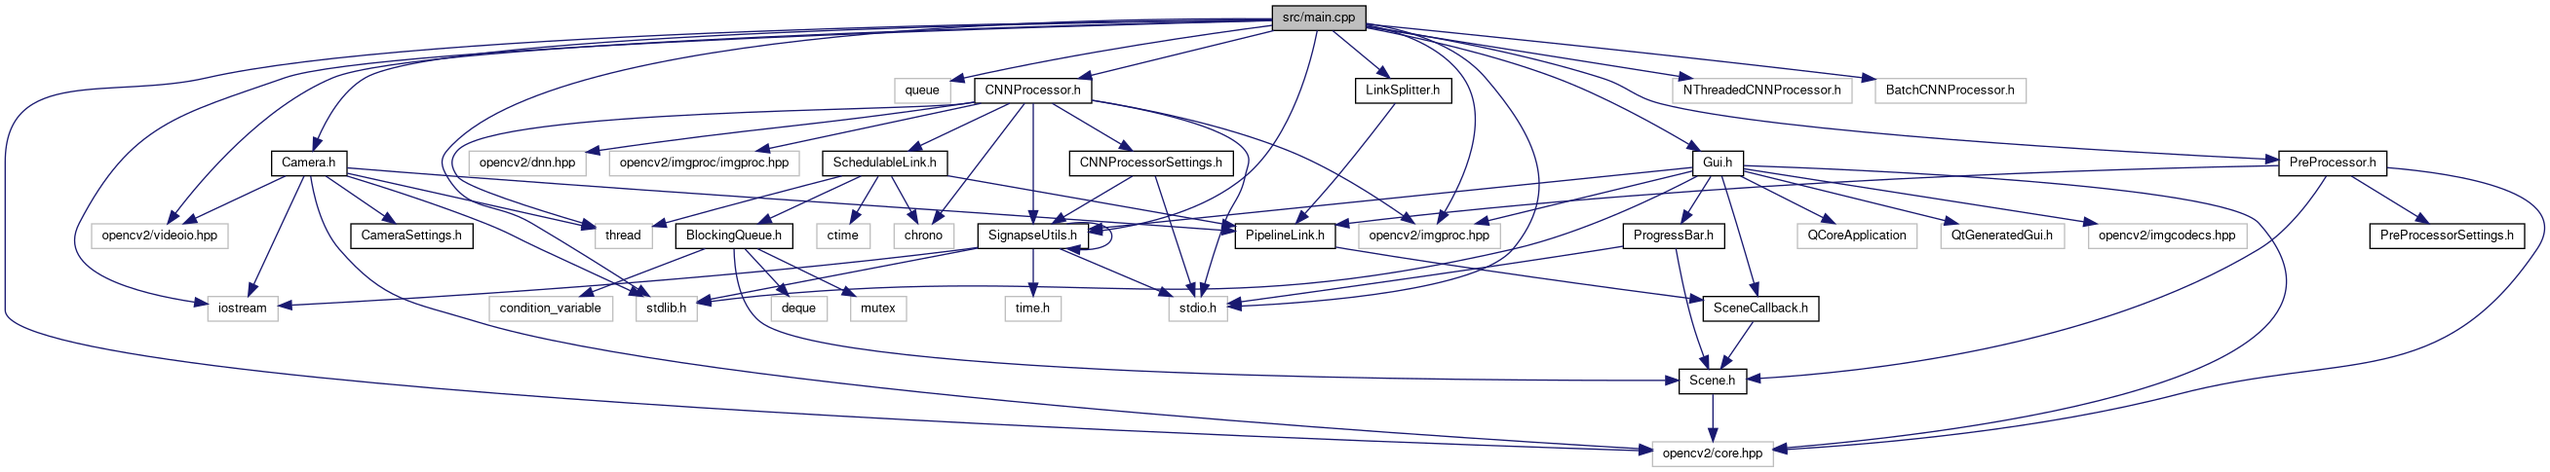
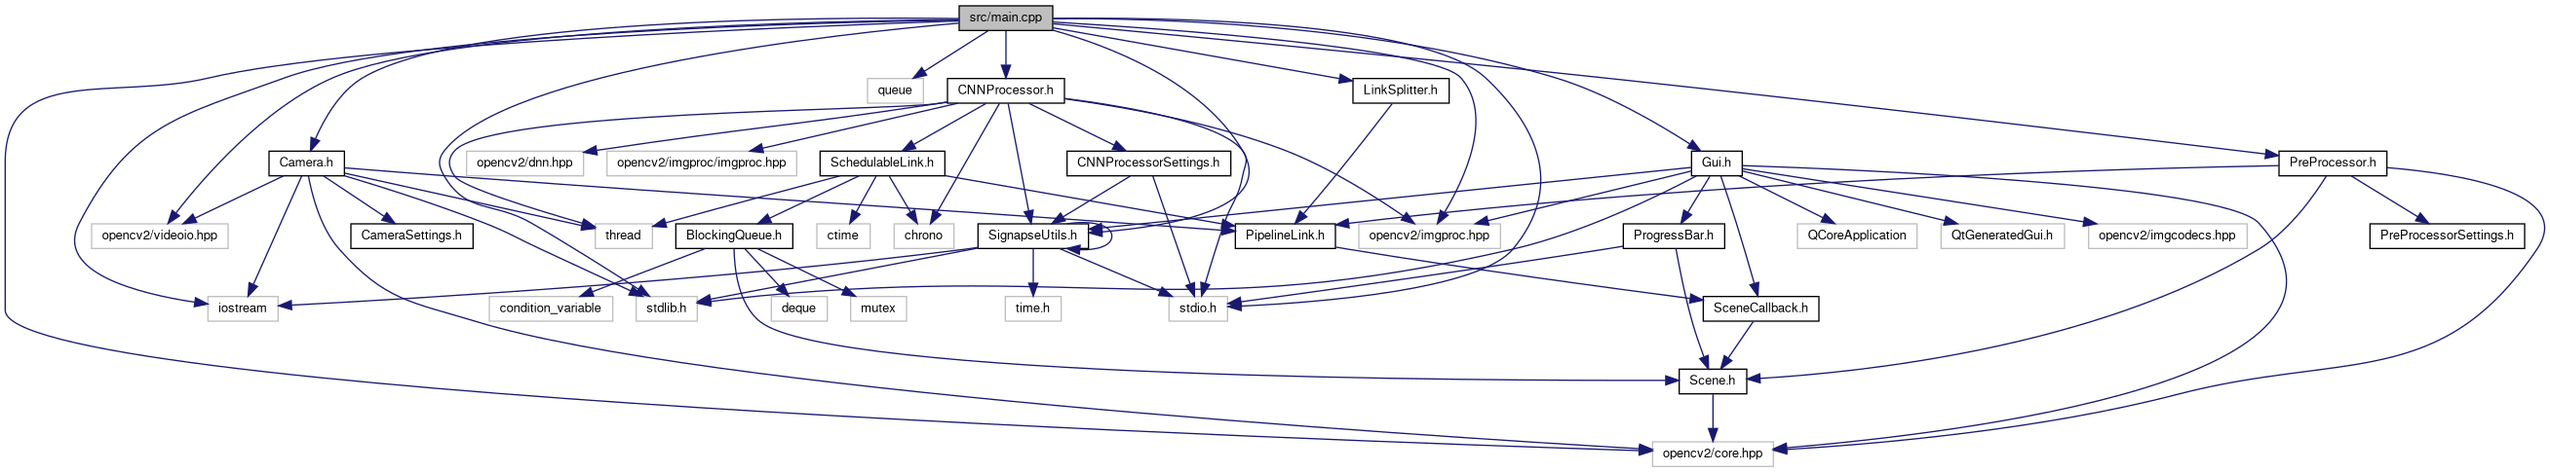
deploy: 8027239b176e8c0fe95b196e7b393e22878663c4

diff --git a/html/main_8cpp_source.html b/html/main_8cpp_source.html
@@ -86,53 +86,51 @@ $(function() {
 <div class="line"><a id="l00013" name="l00013"></a><span class="lineno">   13</span><span class="preprocessor">#include &quot;<a class="code" href="PreProcessor_8h.html">PreProcessor.h</a>&quot;</span></div>
 <div class="line"><a id="l00014" name="l00014"></a><span class="lineno">   14</span><span class="preprocessor">#include &quot;<a class="code" href="SignapseUtils_8h.html">SignapseUtils.h</a>&quot;</span></div>
 <div class="line"><a id="l00015" name="l00015"></a><span class="lineno">   15</span><span class="preprocessor">#include &quot;<a class="code" href="LinkSplitter_8h.html">LinkSplitter.h</a>&quot;</span></div>
-<div class="line"><a id="l00016" name="l00016"></a><span class="lineno">   16</span><span class="preprocessor">#include &quot;NThreadedCNNProcessor.h&quot;</span></div>
-<div class="line"><a id="l00017" name="l00017"></a><span class="lineno">   17</span><span class="preprocessor">#include &quot;BatchCNNProcessor.h&quot;</span></div>
-<div class="line"><a id="l00018" name="l00018"></a><span class="lineno">   18</span> </div>
-<div class="line"><a id="l00019" name="l00019"></a><span class="lineno">   19</span><span class="keyword">using namespace </span>cv;</div>
-<div class="line"><a id="l00020" name="l00020"></a><span class="lineno">   20</span><span class="keyword">using namespace </span>std;</div>
-<div class="line"><a id="l00021" name="l00021"></a><span class="lineno">   21</span> </div>
-<div class="line"><a id="l00022" name="l00022"></a><span class="lineno"><a class="line" href="main_8cpp.html#a0ddf1224851353fc92bfbff6f499fa97">   22</a></span><span class="keywordtype">int</span> <a class="code hl_function" href="main_8cpp.html#a0ddf1224851353fc92bfbff6f499fa97">main</a>(<span class="keywordtype">int</span> argc, <span class="keywordtype">char</span>* argv[]){</div>
-<div class="line"><a id="l00023" name="l00023"></a><span class="lineno">   23</span>    SignapseUtils::welcomeMessage();</div>
-<div class="line"><a id="l00024" name="l00024"></a><span class="lineno">   24</span>    </div>
-<div class="line"><a id="l00025" name="l00025"></a><span class="lineno">   25</span>    <span class="comment">//init Qt and Ui</span></div>
-<div class="line"><a id="l00026" name="l00026"></a><span class="lineno">   26</span>    QApplication app(argc, argv);</div>
-<div class="line"><a id="l00027" name="l00027"></a><span class="lineno">   27</span>    QMainWindow window;</div>
-<div class="line"><a id="l00028" name="l00028"></a><span class="lineno">   28</span>    Ui_MainWindow ui;</div>
-<div class="line"><a id="l00029" name="l00029"></a><span class="lineno">   29</span>    </div>
-<div class="line"><a id="l00030" name="l00030"></a><span class="lineno">   30</span>    <span class="comment">//make pipeline components</span></div>
-<div class="line"><a id="l00031" name="l00031"></a><span class="lineno">   31</span>    <a class="code hl_struct" href="structCameraSettings.html">CameraSettings</a> cameraSettings;</div>
-<div class="line"><a id="l00032" name="l00032"></a><span class="lineno">   32</span>    <a class="code hl_class" href="classCamera.html">Camera</a> camera(cameraSettings);</div>
-<div class="line"><a id="l00033" name="l00033"></a><span class="lineno">   33</span>    <a class="code hl_struct" href="structPreProcessorSettings.html">PreProcessorSettings</a> preProcessorSettings;</div>
-<div class="line"><a id="l00034" name="l00034"></a><span class="lineno">   34</span>    <a class="code hl_class" href="classPreProcessor.html">PreProcessor</a> preProcessor(preProcessorSettings);</div>
-<div class="line"><a id="l00035" name="l00035"></a><span class="lineno">   35</span>    <a class="code hl_class" href="classLinkSplitter.html">LinkSplitter</a> linkSplitter;</div>
-<div class="line"><a id="l00036" name="l00036"></a><span class="lineno">   36</span>    <a class="code hl_struct" href="structCNNProcessorSettings.html">CNNProcessorSettings</a> cnnSettings;</div>
-<div class="line"><a id="l00037" name="l00037"></a><span class="lineno">   37</span>    <a class="code hl_class" href="classCNNProcessor.html">CNNProcessor</a> cnn(cnnSettings);</div>
-<div class="line"><a id="l00038" name="l00038"></a><span class="lineno">   38</span>    <a class="code hl_class" href="classGui.html">Gui</a> gui(&amp;window, &amp;ui);</div>
-<div class="line"><a id="l00039" name="l00039"></a><span class="lineno">   39</span>    </div>
-<div class="line"><a id="l00040" name="l00040"></a><span class="lineno">   40</span>    <span class="comment">//register callbacks (link pipeline)</span></div>
-<div class="line"><a id="l00041" name="l00041"></a><span class="lineno">   41</span>    camera.<a class="code hl_function" href="classPipelineLink.html#ac92d19e26202916992949573bc3577a3">RegisterCallback</a>(&amp;preProcessor);</div>
-<div class="line"><a id="l00042" name="l00042"></a><span class="lineno">   42</span>    preProcessor.<a class="code hl_function" href="classPipelineLink.html#ac92d19e26202916992949573bc3577a3">RegisterCallback</a>(&amp;linkSplitter);</div>
-<div class="line"><a id="l00043" name="l00043"></a><span class="lineno">   43</span>    linkSplitter.<a class="code hl_function" href="classPipelineLink.html#ac92d19e26202916992949573bc3577a3">RegisterCallback</a>(&amp;cnn);</div>
-<div class="line"><a id="l00044" name="l00044"></a><span class="lineno">   44</span>    linkSplitter.<a class="code hl_function" href="classLinkSplitter.html#a209d340b9f32d2abfef1fec944c05786">RegisterSecondaryCallback</a>(&amp;gui);</div>
-<div class="line"><a id="l00045" name="l00045"></a><span class="lineno">   45</span>    cnn.<a class="code hl_function" href="classPipelineLink.html#ac92d19e26202916992949573bc3577a3">RegisterCallback</a>(&amp;gui);</div>
-<div class="line"><a id="l00046" name="l00046"></a><span class="lineno">   46</span>    </div>
-<div class="line"><a id="l00047" name="l00047"></a><span class="lineno">   47</span>    <span class="comment">//start camera and cnn</span></div>
-<div class="line"><a id="l00048" name="l00048"></a><span class="lineno">   48</span>    cnn.<a class="code hl_function" href="classSchedulableLink.html#a8310129e5f23602a040ffba539d80677">Start</a>();</div>
-<div class="line"><a id="l00049" name="l00049"></a><span class="lineno">   49</span>    camera.<a class="code hl_function" href="classCamera.html#a758234ad0415d4072c69820c8e0f15a8">Start</a>();</div>
-<div class="line"><a id="l00050" name="l00050"></a><span class="lineno">   50</span>    </div>
-<div class="line"><a id="l00051" name="l00051"></a><span class="lineno">   51</span>    <span class="comment">//start gui</span></div>
-<div class="line"><a id="l00052" name="l00052"></a><span class="lineno">   52</span>    gui.<a class="code hl_function" href="classGui.html#ac76a8210e18720a6bd248c0f1425a738">SetVisible</a>(<span class="keyword">true</span>);</div>
-<div class="line"><a id="l00053" name="l00053"></a><span class="lineno">   53</span>    app.exec(); <span class="comment">//loops main thread</span></div>
-<div class="line"><a id="l00054" name="l00054"></a><span class="lineno">   54</span>    </div>
-<div class="line"><a id="l00055" name="l00055"></a><span class="lineno">   55</span>    <span class="comment">//stop camera and cnn</span></div>
-<div class="line"><a id="l00056" name="l00056"></a><span class="lineno">   56</span>    camera.<a class="code hl_function" href="classCamera.html#aba5fb6404d7d0876d428fc79b918d019">Stop</a>();</div>
-<div class="line"><a id="l00057" name="l00057"></a><span class="lineno">   57</span>    cnn.<a class="code hl_function" href="classSchedulableLink.html#a59a1d2881a802c8e8cd5f180291771a7">Stop</a>();</div>
-<div class="line"><a id="l00058" name="l00058"></a><span class="lineno">   58</span>    </div>
-<div class="line"><a id="l00059" name="l00059"></a><span class="lineno">   59</span>    <span class="comment">//exit</span></div>
-<div class="line"><a id="l00060" name="l00060"></a><span class="lineno">   60</span>    <span class="keywordflow">return</span> 0;</div>
-<div class="line"><a id="l00061" name="l00061"></a><span class="lineno">   61</span>}</div>
-<div class="line"><a id="l00062" name="l00062"></a><span class="lineno">   62</span> </div>
+<div class="line"><a id="l00016" name="l00016"></a><span class="lineno">   16</span> </div>
+<div class="line"><a id="l00017" name="l00017"></a><span class="lineno">   17</span><span class="keyword">using namespace </span>cv;</div>
+<div class="line"><a id="l00018" name="l00018"></a><span class="lineno">   18</span><span class="keyword">using namespace </span>std;</div>
+<div class="line"><a id="l00019" name="l00019"></a><span class="lineno">   19</span> </div>
+<div class="line"><a id="l00020" name="l00020"></a><span class="lineno"><a class="line" href="main_8cpp.html#a0ddf1224851353fc92bfbff6f499fa97">   20</a></span><span class="keywordtype">int</span> <a class="code hl_function" href="main_8cpp.html#a0ddf1224851353fc92bfbff6f499fa97">main</a>(<span class="keywordtype">int</span> argc, <span class="keywordtype">char</span>* argv[]){</div>
+<div class="line"><a id="l00021" name="l00021"></a><span class="lineno">   21</span>    SignapseUtils::welcomeMessage();</div>
+<div class="line"><a id="l00022" name="l00022"></a><span class="lineno">   22</span>    </div>
+<div class="line"><a id="l00023" name="l00023"></a><span class="lineno">   23</span>    <span class="comment">//init Qt and Ui</span></div>
+<div class="line"><a id="l00024" name="l00024"></a><span class="lineno">   24</span>    QApplication app(argc, argv);</div>
+<div class="line"><a id="l00025" name="l00025"></a><span class="lineno">   25</span>    QMainWindow window;</div>
+<div class="line"><a id="l00026" name="l00026"></a><span class="lineno">   26</span>    Ui_MainWindow ui;</div>
+<div class="line"><a id="l00027" name="l00027"></a><span class="lineno">   27</span>    </div>
+<div class="line"><a id="l00028" name="l00028"></a><span class="lineno">   28</span>    <span class="comment">//make pipeline components</span></div>
+<div class="line"><a id="l00029" name="l00029"></a><span class="lineno">   29</span>    <a class="code hl_struct" href="structCameraSettings.html">CameraSettings</a> cameraSettings;</div>
+<div class="line"><a id="l00030" name="l00030"></a><span class="lineno">   30</span>    <a class="code hl_class" href="classCamera.html">Camera</a> camera(cameraSettings);</div>
+<div class="line"><a id="l00031" name="l00031"></a><span class="lineno">   31</span>    <a class="code hl_struct" href="structPreProcessorSettings.html">PreProcessorSettings</a> preProcessorSettings;</div>
+<div class="line"><a id="l00032" name="l00032"></a><span class="lineno">   32</span>    <a class="code hl_class" href="classPreProcessor.html">PreProcessor</a> preProcessor(preProcessorSettings);</div>
+<div class="line"><a id="l00033" name="l00033"></a><span class="lineno">   33</span>    <a class="code hl_class" href="classLinkSplitter.html">LinkSplitter</a> linkSplitter;</div>
+<div class="line"><a id="l00034" name="l00034"></a><span class="lineno">   34</span>    <a class="code hl_struct" href="structCNNProcessorSettings.html">CNNProcessorSettings</a> cnnSettings;</div>
+<div class="line"><a id="l00035" name="l00035"></a><span class="lineno">   35</span>    <a class="code hl_class" href="classCNNProcessor.html">CNNProcessor</a> cnn(cnnSettings);</div>
+<div class="line"><a id="l00036" name="l00036"></a><span class="lineno">   36</span>    <a class="code hl_class" href="classGui.html">Gui</a> gui(&amp;window, &amp;ui);</div>
+<div class="line"><a id="l00037" name="l00037"></a><span class="lineno">   37</span>    </div>
+<div class="line"><a id="l00038" name="l00038"></a><span class="lineno">   38</span>    <span class="comment">//register callbacks (link pipeline)</span></div>
+<div class="line"><a id="l00039" name="l00039"></a><span class="lineno">   39</span>    camera.<a class="code hl_function" href="classPipelineLink.html#ac92d19e26202916992949573bc3577a3">RegisterCallback</a>(&amp;preProcessor);</div>
+<div class="line"><a id="l00040" name="l00040"></a><span class="lineno">   40</span>    preProcessor.<a class="code hl_function" href="classPipelineLink.html#ac92d19e26202916992949573bc3577a3">RegisterCallback</a>(&amp;linkSplitter);</div>
+<div class="line"><a id="l00041" name="l00041"></a><span class="lineno">   41</span>    linkSplitter.<a class="code hl_function" href="classPipelineLink.html#ac92d19e26202916992949573bc3577a3">RegisterCallback</a>(&amp;cnn);</div>
+<div class="line"><a id="l00042" name="l00042"></a><span class="lineno">   42</span>    linkSplitter.<a class="code hl_function" href="classLinkSplitter.html#a209d340b9f32d2abfef1fec944c05786">RegisterSecondaryCallback</a>(&amp;gui);</div>
+<div class="line"><a id="l00043" name="l00043"></a><span class="lineno">   43</span>    cnn.<a class="code hl_function" href="classPipelineLink.html#ac92d19e26202916992949573bc3577a3">RegisterCallback</a>(&amp;gui);</div>
+<div class="line"><a id="l00044" name="l00044"></a><span class="lineno">   44</span>    </div>
+<div class="line"><a id="l00045" name="l00045"></a><span class="lineno">   45</span>    <span class="comment">//start camera and cnn</span></div>
+<div class="line"><a id="l00046" name="l00046"></a><span class="lineno">   46</span>    cnn.<a class="code hl_function" href="classSchedulableLink.html#a8310129e5f23602a040ffba539d80677">Start</a>();</div>
+<div class="line"><a id="l00047" name="l00047"></a><span class="lineno">   47</span>    camera.<a class="code hl_function" href="classCamera.html#a758234ad0415d4072c69820c8e0f15a8">Start</a>();</div>
+<div class="line"><a id="l00048" name="l00048"></a><span class="lineno">   48</span>    </div>
+<div class="line"><a id="l00049" name="l00049"></a><span class="lineno">   49</span>    <span class="comment">//start gui</span></div>
+<div class="line"><a id="l00050" name="l00050"></a><span class="lineno">   50</span>    gui.<a class="code hl_function" href="classGui.html#ac76a8210e18720a6bd248c0f1425a738">SetVisible</a>(<span class="keyword">true</span>);</div>
+<div class="line"><a id="l00051" name="l00051"></a><span class="lineno">   51</span>    app.exec(); <span class="comment">//loops main thread</span></div>
+<div class="line"><a id="l00052" name="l00052"></a><span class="lineno">   52</span>    </div>
+<div class="line"><a id="l00053" name="l00053"></a><span class="lineno">   53</span>    <span class="comment">//stop camera and cnn</span></div>
+<div class="line"><a id="l00054" name="l00054"></a><span class="lineno">   54</span>    camera.<a class="code hl_function" href="classCamera.html#aba5fb6404d7d0876d428fc79b918d019">Stop</a>();</div>
+<div class="line"><a id="l00055" name="l00055"></a><span class="lineno">   55</span>    cnn.<a class="code hl_function" href="classSchedulableLink.html#a59a1d2881a802c8e8cd5f180291771a7">Stop</a>();</div>
+<div class="line"><a id="l00056" name="l00056"></a><span class="lineno">   56</span>    </div>
+<div class="line"><a id="l00057" name="l00057"></a><span class="lineno">   57</span>    <span class="comment">//exit</span></div>
+<div class="line"><a id="l00058" name="l00058"></a><span class="lineno">   58</span>    <span class="keywordflow">return</span> 0;</div>
+<div class="line"><a id="l00059" name="l00059"></a><span class="lineno">   59</span>}</div>
+<div class="line"><a id="l00060" name="l00060"></a><span class="lineno">   60</span> </div>
 <div class="ttc" id="aCNNProcessor_8h_html"><div class="ttname"><a href="CNNProcessor_8h.html">CNNProcessor.h</a></div></div>
 <div class="ttc" id="aCamera_8h_html"><div class="ttname"><a href="Camera_8h.html">Camera.h</a></div></div>
 <div class="ttc" id="aGui_8h_html"><div class="ttname"><a href="Gui_8h.html">Gui.h</a></div></div>
@@ -151,7 +149,7 @@ $(function() {
 <div class="ttc" id="aclassPreProcessor_html"><div class="ttname"><a href="classPreProcessor.html">PreProcessor</a></div><div class="ttdef"><b>Definition:</b> <a href="PreProcessor_8h_source.html#l00008">PreProcessor.h:8</a></div></div>
 <div class="ttc" id="aclassSchedulableLink_html_a59a1d2881a802c8e8cd5f180291771a7"><div class="ttname"><a href="classSchedulableLink.html#a59a1d2881a802c8e8cd5f180291771a7">SchedulableLink::Stop</a></div><div class="ttdeci">void Stop()</div><div class="ttdef"><b>Definition:</b> <a href="SchedulableLink_8cpp_source.html#l00040">SchedulableLink.cpp:40</a></div></div>
 <div class="ttc" id="aclassSchedulableLink_html_a8310129e5f23602a040ffba539d80677"><div class="ttname"><a href="classSchedulableLink.html#a8310129e5f23602a040ffba539d80677">SchedulableLink::Start</a></div><div class="ttdeci">void Start()</div><div class="ttdef"><b>Definition:</b> <a href="SchedulableLink_8cpp_source.html#l00034">SchedulableLink.cpp:34</a></div></div>
-<div class="ttc" id="amain_8cpp_html_a0ddf1224851353fc92bfbff6f499fa97"><div class="ttname"><a href="main_8cpp.html#a0ddf1224851353fc92bfbff6f499fa97">main</a></div><div class="ttdeci">int main(int argc, char *argv[])</div><div class="ttdef"><b>Definition:</b> <a href="main_8cpp_source.html#l00022">main.cpp:22</a></div></div>
+<div class="ttc" id="amain_8cpp_html_a0ddf1224851353fc92bfbff6f499fa97"><div class="ttname"><a href="main_8cpp.html#a0ddf1224851353fc92bfbff6f499fa97">main</a></div><div class="ttdeci">int main(int argc, char *argv[])</div><div class="ttdef"><b>Definition:</b> <a href="main_8cpp_source.html#l00020">main.cpp:20</a></div></div>
 <div class="ttc" id="astructCNNProcessorSettings_html"><div class="ttname"><a href="structCNNProcessorSettings.html">CNNProcessorSettings</a></div><div class="ttdef"><b>Definition:</b> <a href="CNNProcessorSettings_8h_source.html#l00011">CNNProcessorSettings.h:11</a></div></div>
 <div class="ttc" id="astructCameraSettings_html"><div class="ttname"><a href="structCameraSettings.html">CameraSettings</a></div><div class="ttdef"><b>Definition:</b> <a href="CameraSettings_8h_source.html#l00006">CameraSettings.h:6</a></div></div>
 <div class="ttc" id="astructPreProcessorSettings_html"><div class="ttname"><a href="structPreProcessorSettings.html">PreProcessorSettings</a></div><div class="ttdef"><b>Definition:</b> <a href="PreProcessorSettings_8h_source.html#l00009">PreProcessorSettings.h:9</a></div></div>

diff --git a/html/main_8cpp.html b/html/main_8cpp.html
@@ -86,39 +86,35 @@ $(function() {
 <code>#include &quot;<a class="el" href="PreProcessor_8h_source.html">PreProcessor.h</a>&quot;</code><br />
 <code>#include &quot;<a class="el" href="SignapseUtils_8h_source.html">SignapseUtils.h</a>&quot;</code><br />
 <code>#include &quot;<a class="el" href="LinkSplitter_8h_source.html">LinkSplitter.h</a>&quot;</code><br />
-<code>#include &quot;NThreadedCNNProcessor.h&quot;</code><br />
-<code>#include &quot;BatchCNNProcessor.h&quot;</code><br />
 </div><div class="textblock"><div class="dynheader">
 Include dependency graph for main.cpp:</div>
 <div class="dyncontent">
 <div class="center"><img src="main_8cpp__incl.png" border="0" usemap="#asrc_2main_8cpp" alt=""/></div>
 <map name="asrc_2main_8cpp" id="asrc_2main_8cpp">
-<area shape="rect" title=" " alt="" coords="1305,5,1401,32"/>
+<area shape="rect" title=" " alt="" coords="984,5,1080,32"/>
 <area shape="rect" title=" " alt="" coords="1695,453,1819,480"/>
 <area shape="rect" title=" " alt="" coords="94,229,234,256"/>
 <area shape="rect" title=" " alt="" coords="1394,229,1539,256"/>
 <area shape="rect" title=" " alt="" coords="213,304,285,331"/>
 <area shape="rect" title=" " alt="" coords="1199,304,1259,331"/>
-<area shape="rect" title=" " alt="" coords="918,80,975,107"/>
-<area shape="rect" href="Camera_8h.html" title=" " alt="" coords="279,155,356,181"/>
+<area shape="rect" title=" " alt="" coords="890,80,947,107"/>
+<area shape="rect" href="Camera_8h.html" title=" " alt="" coords="276,155,353,181"/>
 <area shape="rect" title=" " alt="" coords="653,304,715,331"/>
-<area shape="rect" href="CNNProcessor_8h.html" title=" " alt="" coords="1000,80,1120,107"/>
+<area shape="rect" href="CNNProcessor_8h.html" title=" " alt="" coords="972,80,1092,107"/>
 <area shape="rect" href="SignapseUtils_8h.html" title=" " alt="" coords="1003,229,1117,256"/>
-<area shape="rect" href="Gui_8h.html" title=" " alt="" coords="1737,155,1789,181"/>
+<area shape="rect" href="Gui_8h.html" title=" " alt="" coords="1735,155,1787,181"/>
 <area shape="rect" href="PreProcessor_8h.html" title=" " alt="" coords="2338,155,2449,181"/>
-<area shape="rect" href="LinkSplitter_8h.html" title=" " alt="" coords="1391,80,1489,107"/>
-<area shape="rect" title=" " alt="" coords="1716,80,1900,107"/>
-<area shape="rect" title=" " alt="" coords="1924,80,2079,107"/>
+<area shape="rect" href="LinkSplitter_8h.html" title=" " alt="" coords="1388,80,1487,107"/>
 <area shape="rect" title=" " alt="" coords="611,229,669,256"/>
 <area shape="rect" href="PipelineLink_8h.html" title=" " alt="" coords="1267,229,1370,256"/>
 <area shape="rect" href="CameraSettings_8h.html" title=" " alt="" coords="360,229,485,256"/>
 <area shape="rect" href="SceneCallback_8h.html" title=" " alt="" coords="1747,304,1866,331"/>
 <area shape="rect" href="Scene_8h.html" title=" " alt="" coords="1723,379,1792,405"/>
-<area shape="rect" title=" " alt="" coords="481,155,601,181"/>
-<area shape="rect" title=" " alt="" coords="625,155,820,181"/>
+<area shape="rect" title=" " alt="" coords="479,155,599,181"/>
+<area shape="rect" title=" " alt="" coords="623,155,817,181"/>
 <area shape="rect" title=" " alt="" coords="917,229,979,256"/>
-<area shape="rect" href="SchedulableLink_8h.html" title=" " alt="" coords="844,155,972,181"/>
-<area shape="rect" href="CNNProcessorSettings_8h.html" title=" " alt="" coords="1097,155,1265,181"/>
+<area shape="rect" href="SchedulableLink_8h.html" title=" " alt="" coords="841,155,969,181"/>
+<area shape="rect" href="CNNProcessorSettings_8h.html" title=" " alt="" coords="1095,155,1263,181"/>
 <area shape="rect" title=" " alt="" coords="838,229,893,256"/>
 <area shape="rect" href="BlockingQueue_8h.html" title=" " alt="" coords="693,229,813,256"/>
 <area shape="rect" title=" " alt="" coords="791,304,849,331"/>
@@ -167,47 +163,47 @@ Functions</h2></td></tr>
       </table>
 </div><div class="memdoc">
 
-<p class="definition">Definition at line <a class="el" href="main_8cpp_source.html#l00022">22</a> of file <a class="el" href="main_8cpp_source.html">main.cpp</a>.</p>
-<div class="fragment"><div class="line"><span class="lineno">   22</span>                                {</div>
-<div class="line"><span class="lineno">   23</span>    SignapseUtils::welcomeMessage();</div>
-<div class="line"><span class="lineno">   24</span>    </div>
-<div class="line"><span class="lineno">   25</span>    <span class="comment">//init Qt and Ui</span></div>
-<div class="line"><span class="lineno">   26</span>    QApplication app(argc, argv);</div>
-<div class="line"><span class="lineno">   27</span>    QMainWindow window;</div>
-<div class="line"><span class="lineno">   28</span>    Ui_MainWindow ui;</div>
-<div class="line"><span class="lineno">   29</span>    </div>
-<div class="line"><span class="lineno">   30</span>    <span class="comment">//make pipeline components</span></div>
-<div class="line"><span class="lineno">   31</span>    <a class="code hl_struct" href="structCameraSettings.html">CameraSettings</a> cameraSettings;</div>
-<div class="line"><span class="lineno">   32</span>    <a class="code hl_class" href="classCamera.html">Camera</a> camera(cameraSettings);</div>
-<div class="line"><span class="lineno">   33</span>    <a class="code hl_struct" href="structPreProcessorSettings.html">PreProcessorSettings</a> preProcessorSettings;</div>
-<div class="line"><span class="lineno">   34</span>    <a class="code hl_class" href="classPreProcessor.html">PreProcessor</a> preProcessor(preProcessorSettings);</div>
-<div class="line"><span class="lineno">   35</span>    <a class="code hl_class" href="classLinkSplitter.html">LinkSplitter</a> linkSplitter;</div>
-<div class="line"><span class="lineno">   36</span>    <a class="code hl_struct" href="structCNNProcessorSettings.html">CNNProcessorSettings</a> cnnSettings;</div>
-<div class="line"><span class="lineno">   37</span>    <a class="code hl_class" href="classCNNProcessor.html">CNNProcessor</a> cnn(cnnSettings);</div>
-<div class="line"><span class="lineno">   38</span>    <a class="code hl_class" href="classGui.html">Gui</a> gui(&amp;window, &amp;ui);</div>
-<div class="line"><span class="lineno">   39</span>    </div>
-<div class="line"><span class="lineno">   40</span>    <span class="comment">//register callbacks (link pipeline)</span></div>
-<div class="line"><span class="lineno">   41</span>    camera.RegisterCallback(&amp;preProcessor);</div>
-<div class="line"><span class="lineno">   42</span>    preProcessor.RegisterCallback(&amp;linkSplitter);</div>
-<div class="line"><span class="lineno">   43</span>    linkSplitter.<a class="code hl_function" href="classPipelineLink.html#ac92d19e26202916992949573bc3577a3">RegisterCallback</a>(&amp;cnn);</div>
-<div class="line"><span class="lineno">   44</span>    linkSplitter.<a class="code hl_function" href="classLinkSplitter.html#a209d340b9f32d2abfef1fec944c05786">RegisterSecondaryCallback</a>(&amp;gui);</div>
-<div class="line"><span class="lineno">   45</span>    cnn.RegisterCallback(&amp;gui);</div>
-<div class="line"><span class="lineno">   46</span>    </div>
-<div class="line"><span class="lineno">   47</span>    <span class="comment">//start camera and cnn</span></div>
-<div class="line"><span class="lineno">   48</span>    cnn.Start();</div>
-<div class="line"><span class="lineno">   49</span>    camera.Start();</div>
-<div class="line"><span class="lineno">   50</span>    </div>
-<div class="line"><span class="lineno">   51</span>    <span class="comment">//start gui</span></div>
-<div class="line"><span class="lineno">   52</span>    gui.SetVisible(<span class="keyword">true</span>);</div>
-<div class="line"><span class="lineno">   53</span>    app.exec(); <span class="comment">//loops main thread</span></div>
-<div class="line"><span class="lineno">   54</span>    </div>
-<div class="line"><span class="lineno">   55</span>    <span class="comment">//stop camera and cnn</span></div>
-<div class="line"><span class="lineno">   56</span>    camera.Stop();</div>
-<div class="line"><span class="lineno">   57</span>    cnn.Stop();</div>
-<div class="line"><span class="lineno">   58</span>    </div>
-<div class="line"><span class="lineno">   59</span>    <span class="comment">//exit</span></div>
-<div class="line"><span class="lineno">   60</span>    <span class="keywordflow">return</span> 0;</div>
-<div class="line"><span class="lineno">   61</span>}</div>
+<p class="definition">Definition at line <a class="el" href="main_8cpp_source.html#l00020">20</a> of file <a class="el" href="main_8cpp_source.html">main.cpp</a>.</p>
+<div class="fragment"><div class="line"><span class="lineno">   20</span>                                {</div>
+<div class="line"><span class="lineno">   21</span>    SignapseUtils::welcomeMessage();</div>
+<div class="line"><span class="lineno">   22</span>    </div>
+<div class="line"><span class="lineno">   23</span>    <span class="comment">//init Qt and Ui</span></div>
+<div class="line"><span class="lineno">   24</span>    QApplication app(argc, argv);</div>
+<div class="line"><span class="lineno">   25</span>    QMainWindow window;</div>
+<div class="line"><span class="lineno">   26</span>    Ui_MainWindow ui;</div>
+<div class="line"><span class="lineno">   27</span>    </div>
+<div class="line"><span class="lineno">   28</span>    <span class="comment">//make pipeline components</span></div>
+<div class="line"><span class="lineno">   29</span>    <a class="code hl_struct" href="structCameraSettings.html">CameraSettings</a> cameraSettings;</div>
+<div class="line"><span class="lineno">   30</span>    <a class="code hl_class" href="classCamera.html">Camera</a> camera(cameraSettings);</div>
+<div class="line"><span class="lineno">   31</span>    <a class="code hl_struct" href="structPreProcessorSettings.html">PreProcessorSettings</a> preProcessorSettings;</div>
+<div class="line"><span class="lineno">   32</span>    <a class="code hl_class" href="classPreProcessor.html">PreProcessor</a> preProcessor(preProcessorSettings);</div>
+<div class="line"><span class="lineno">   33</span>    <a class="code hl_class" href="classLinkSplitter.html">LinkSplitter</a> linkSplitter;</div>
+<div class="line"><span class="lineno">   34</span>    <a class="code hl_struct" href="structCNNProcessorSettings.html">CNNProcessorSettings</a> cnnSettings;</div>
+<div class="line"><span class="lineno">   35</span>    <a class="code hl_class" href="classCNNProcessor.html">CNNProcessor</a> cnn(cnnSettings);</div>
+<div class="line"><span class="lineno">   36</span>    <a class="code hl_class" href="classGui.html">Gui</a> gui(&amp;window, &amp;ui);</div>
+<div class="line"><span class="lineno">   37</span>    </div>
+<div class="line"><span class="lineno">   38</span>    <span class="comment">//register callbacks (link pipeline)</span></div>
+<div class="line"><span class="lineno">   39</span>    camera.RegisterCallback(&amp;preProcessor);</div>
+<div class="line"><span class="lineno">   40</span>    preProcessor.RegisterCallback(&amp;linkSplitter);</div>
+<div class="line"><span class="lineno">   41</span>    linkSplitter.<a class="code hl_function" href="classPipelineLink.html#ac92d19e26202916992949573bc3577a3">RegisterCallback</a>(&amp;cnn);</div>
+<div class="line"><span class="lineno">   42</span>    linkSplitter.<a class="code hl_function" href="classLinkSplitter.html#a209d340b9f32d2abfef1fec944c05786">RegisterSecondaryCallback</a>(&amp;gui);</div>
+<div class="line"><span class="lineno">   43</span>    cnn.RegisterCallback(&amp;gui);</div>
+<div class="line"><span class="lineno">   44</span>    </div>
+<div class="line"><span class="lineno">   45</span>    <span class="comment">//start camera and cnn</span></div>
+<div class="line"><span class="lineno">   46</span>    cnn.Start();</div>
+<div class="line"><span class="lineno">   47</span>    camera.Start();</div>
+<div class="line"><span class="lineno">   48</span>    </div>
+<div class="line"><span class="lineno">   49</span>    <span class="comment">//start gui</span></div>
+<div class="line"><span class="lineno">   50</span>    gui.SetVisible(<span class="keyword">true</span>);</div>
+<div class="line"><span class="lineno">   51</span>    app.exec(); <span class="comment">//loops main thread</span></div>
+<div class="line"><span class="lineno">   52</span>    </div>
+<div class="line"><span class="lineno">   53</span>    <span class="comment">//stop camera and cnn</span></div>
+<div class="line"><span class="lineno">   54</span>    camera.Stop();</div>
+<div class="line"><span class="lineno">   55</span>    cnn.Stop();</div>
+<div class="line"><span class="lineno">   56</span>    </div>
+<div class="line"><span class="lineno">   57</span>    <span class="comment">//exit</span></div>
+<div class="line"><span class="lineno">   58</span>    <span class="keywordflow">return</span> 0;</div>
+<div class="line"><span class="lineno">   59</span>}</div>
 <div class="ttc" id="aclassCNNProcessor_html"><div class="ttname"><a href="classCNNProcessor.html">CNNProcessor</a></div><div class="ttdef"><b>Definition:</b> <a href="CNNProcessor_8h_source.html#l00020">CNNProcessor.h:20</a></div></div>
 <div class="ttc" id="aclassCamera_html"><div class="ttname"><a href="classCamera.html">Camera</a></div><div class="ttdef"><b>Definition:</b> <a href="Camera_8h_source.html#l00015">Camera.h:15</a></div></div>
 <div class="ttc" id="aclassGui_html"><div class="ttname"><a href="classGui.html">Gui</a></div><div class="ttdef"><b>Definition:</b> <a href="Gui_8h_source.html#l00022">Gui.h:22</a></div></div>
